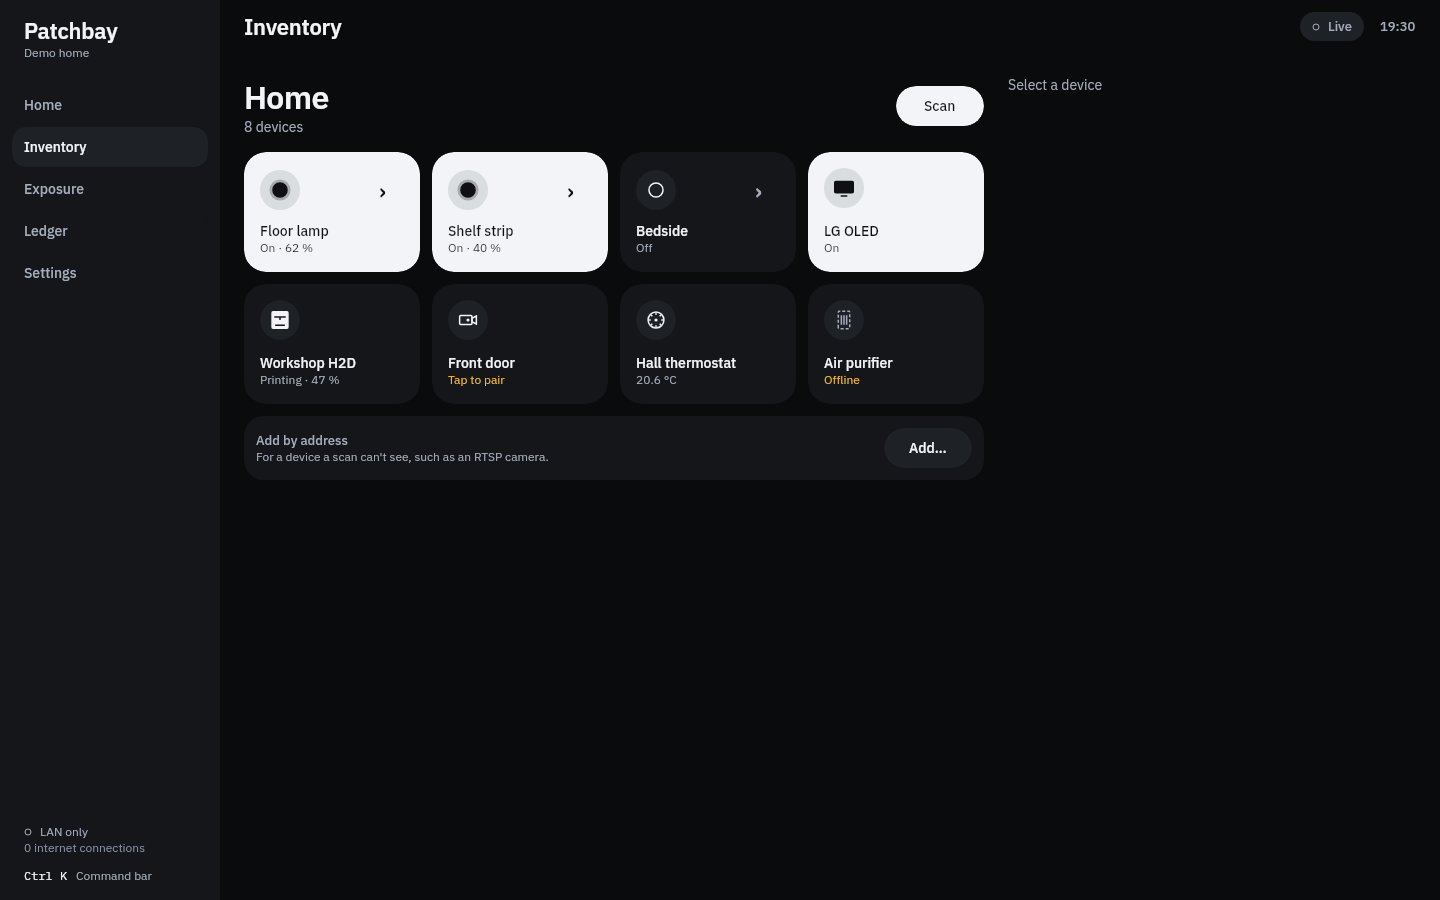
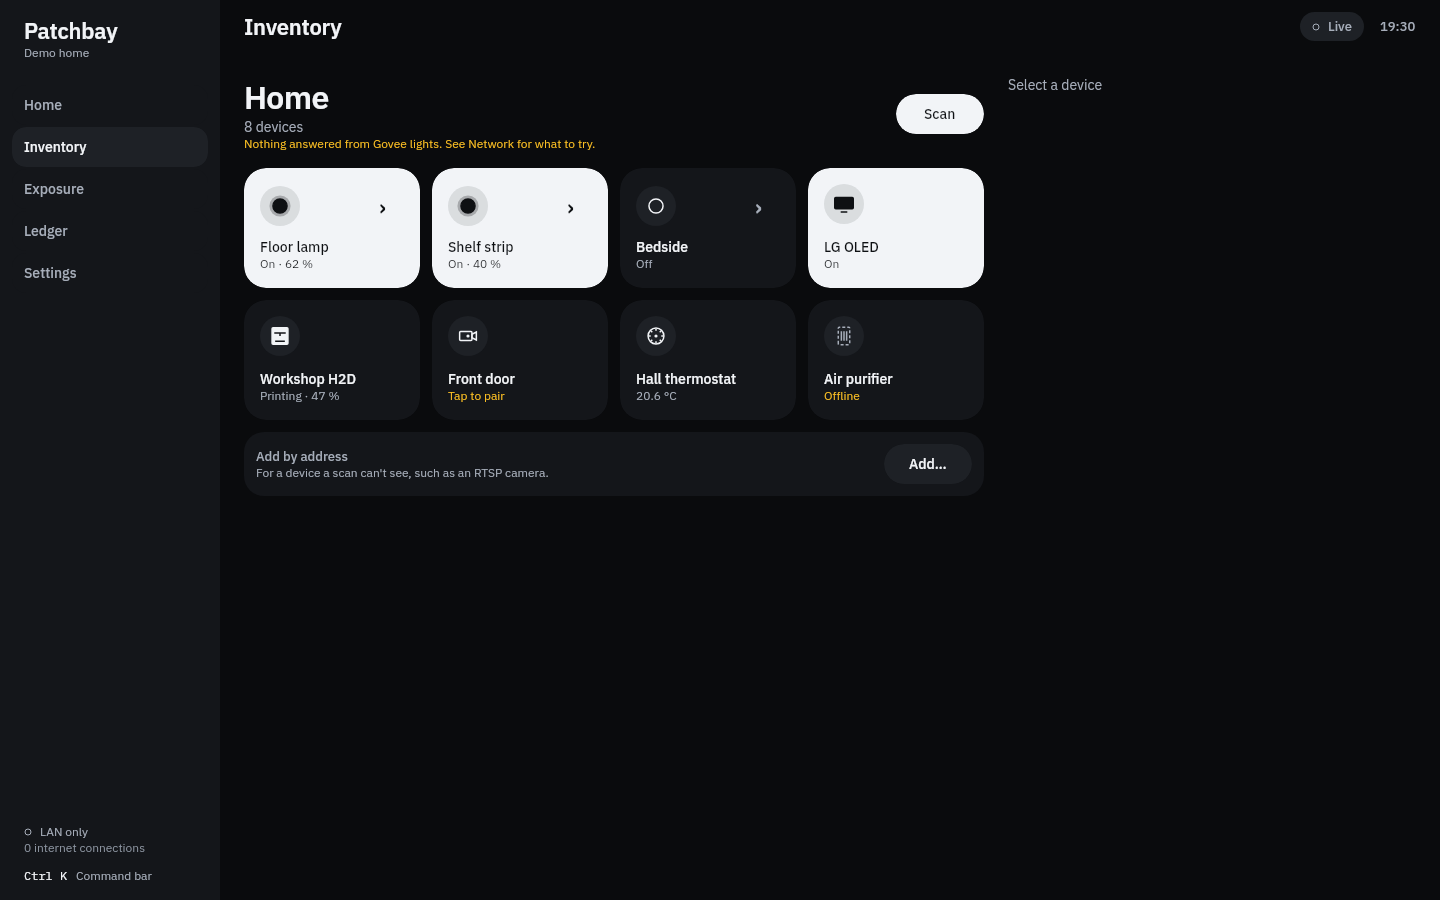
docs(design): re-record screenshot goldens (30 renders, adds the Network screen)
Claude-Session: https://claude.ai/code/session_01VKgrBEm7ZaxNZiCGqfgE4v

diff --git a/docs/design/screens/README.md b/docs/design/screens/README.md
@@ -2,7 +2,7 @@
 
 These PNGs are rendered by `ui/src/desktopTest/.../ScreenshotTest.kt` from the deterministic demo home.
 
-**Recorded 2026-11-06** from the CI render of commit `81de125` (29 PNGs: light, dark and night, phone and desktop, including the live tile screens), after the visual redesign (ADR 0009). The
+**Recorded 2026-11-06** from the CI render of commit `287ae5d` (30 PNGs: light, dark and night, phone and desktop, including the live tile screens and the Network screen), after the visual redesign (ADR 0009). The
 `:ui:desktopTest` run in CI compares every render with these and fails on drift (ADR 0006).
 
 When you change the UI on purpose, re-record and review the images before committing them. In CI, run the
